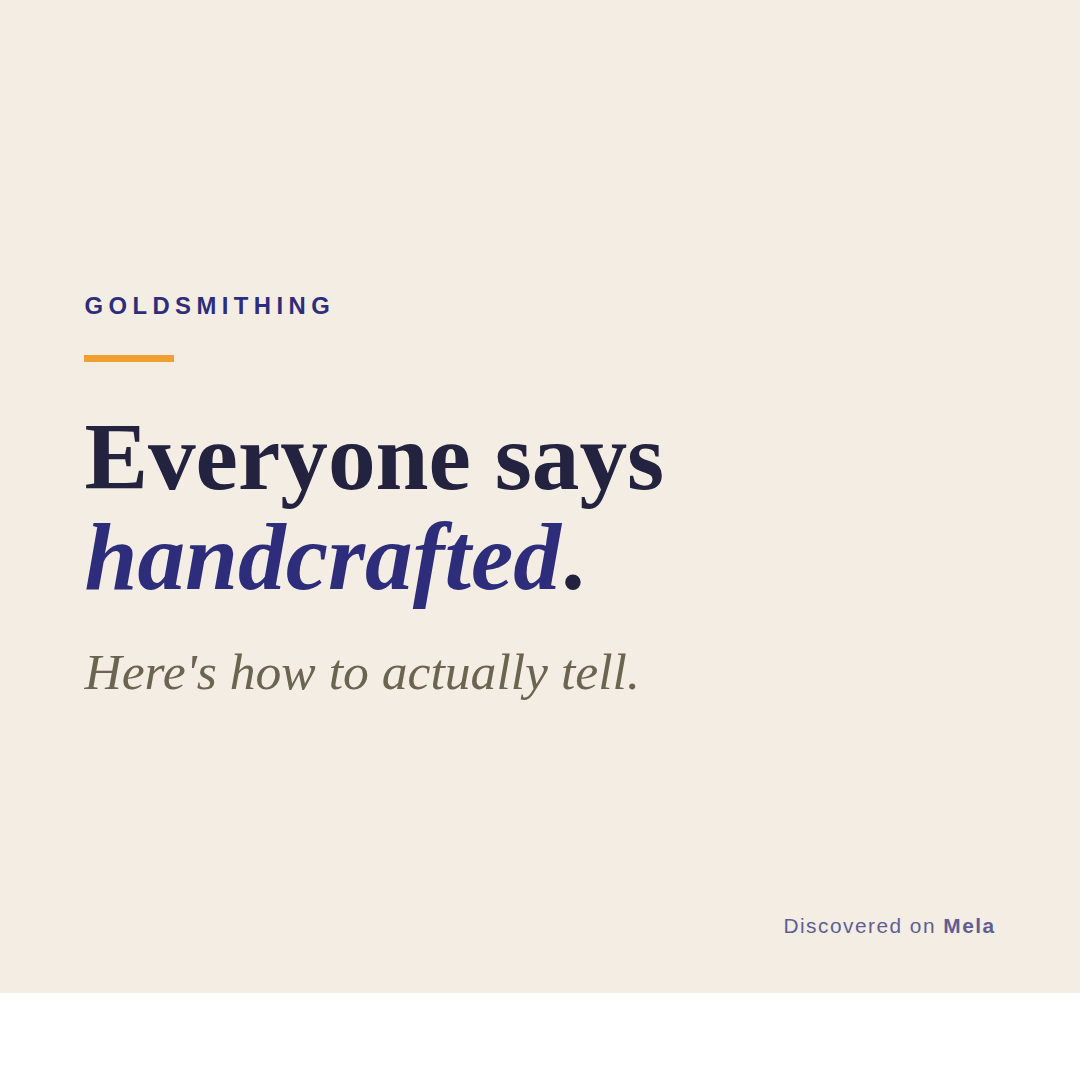
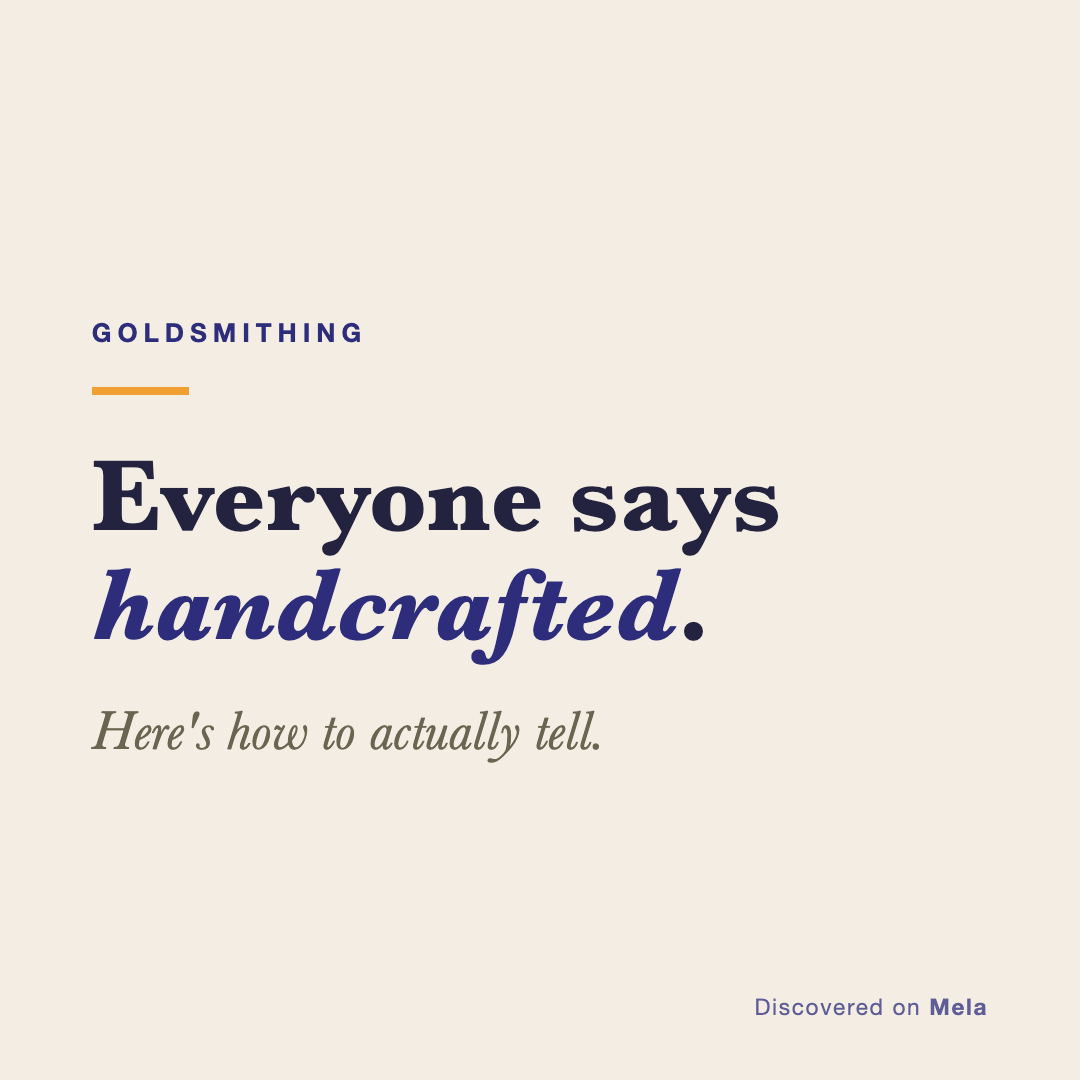
docs(social): record week-2 Blotato scheduling and fix education slide renders
Writes the Blotato submission IDs and scheduled times into the Isharya,
House of Chikankari and goldsmithing-education campaign logs (8 of 9 posts
scheduled; the House of Chikankari IG carousel is still unscheduled) and adds
the 4:5 ig_image_url crops Instagram needs for the HoC photos.

Replaces the three education slide PNGs, which had an ~87px blank strip along
the bottom from a headless-Chrome viewport bug, with local re-renders.

diff --git a/social/staging/week-of-2026-10-04.md b/social/staging/week-of-2026-10-04.md
@@ -5,7 +5,7 @@
 
 ---
 
-> **UPDATE 2026-10-08 (local session):** the watermark + QC gap below is CLOSED for all 6 product images. Isharya renders were downloaded and diffed against source (Amina PASS; Banger PASS with minor colour notes, founder eyeball still required; **Bling failed and was re-rendered**, new render passes), then all 6 images were watermarked and re-hosted, and the `image_url` fields in both campaign YAMLs and the image links in the tables below now point at the watermarked files. `blotato_create_post` has still NOT been called. The egress-gap notes below are kept as the original run record.
+> **UPDATE 2026-10-08 (local session):** the watermark + QC gap below is CLOSED for all 6 product images. Isharya renders were downloaded and diffed against source (Amina PASS; Banger PASS with minor colour notes, founder eyeball still required; **Bling failed and was re-rendered**, new render passes), then all 6 images were watermarked and re-hosted, and the `image_url` fields in both campaign YAMLs and the image links in the tables below now point at the watermarked files. **SCHEDULED 2026-10-08:** 8 of 9 posts are in the Blotato queue (IG Isharya 10-09, IG education 10-11, 6 pins 10-09..10-14, one per day, alternating Isharya/HOC). **The House of Chikankari IG carousel was NOT scheduled** (permission denied; suggested slot 10-10 17:00 UTC, use the 4:5 `ig_image_url` crops). The education slides were re-rendered locally to remove an ~87px transparent/white strip along the bottom. The egress-gap notes below are kept as the original run record.
 
 ## ⚠ READ FIRST — network egress gaps this run (infrastructure, not content)
 
